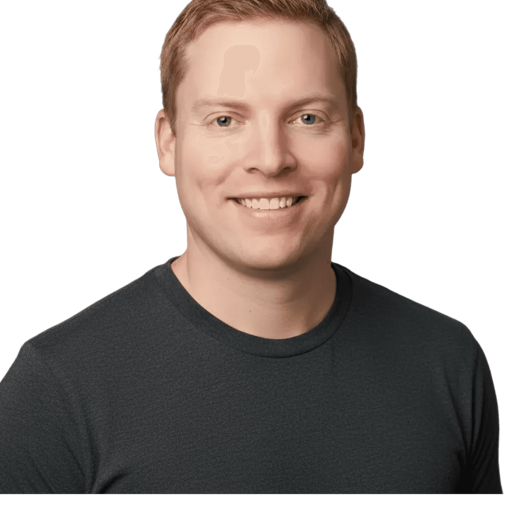
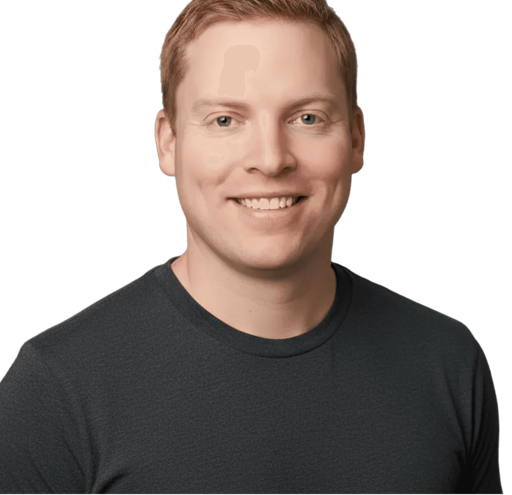
Portfolio updates: adjust profile picture positioning (#1)
* fix: lower profile picture within circle container

Move circle styling (border-radius, border, box-shadow) from .avatar
to .profile-image container with overflow:hidden. Use scale(1.08) with
transform-origin:center-top on the image to shift visible content down
~7px within the circle. Consolidate duplicate .profile-image rules.

* fix: fine-tune profile picture position — ~1px above hair

Increased scale to 1.28 and added translateY(-21px) to position the
photo so just a pixel of background is visible above the hairline.

* fix: reposition profile photo — show full hair with no bottom black bar

Scale image 1.32x and shift down 19px within the circle container.
Ensures full head/hair is visible with ~1-2px gap above hairline,
while cropping the dark background at the bottom of the photo.

* fix: crop photo transparent padding and simplify avatar CSS

- Cropped 17px of transparent padding from bottom of ken-zink.png
- Removed complex scale/translate transforms from .avatar
- Added theme-aware background (var(--bg-primary)) to .profile-image
  container so transparent areas in the photo blend with the page
- Result: full hair visible at top, no dark bar at bottom, works
  in both dark and light themes

* fix: shift profile photo down 16px for better hair visibility

Scale image 1.22x and translateY 16px to push the photo down within
the circle, giving the hair more clearance from the circle's top edge.

diff --git a/src/App.css b/src/App.css
@@ -84,8 +84,14 @@ body {
 }
 
 .profile-image {
-  display: flex;
-  justify-content: center;
+  width: 140px;
+  height: 140px;
+  border-radius: 50%;
+  overflow: hidden;
+  border: 3px solid var(--accent);
+  box-shadow: 0 8px 32px rgba(99, 102, 241, 0.3);
+  margin: 0 auto;
+  background: var(--bg-primary);
 }
 
 .avatar-placeholder {
@@ -102,19 +108,13 @@ body {
   box-shadow: 0 8px 32px rgba(99, 102, 241, 0.3);
 }
 
-.profile-image {
-  display: flex;
-  justify-content: center;
-}
-
 .avatar {
-  width: 140px;
-  height: 140px;
-  border-radius: 50%;
+  width: 100%;
+  height: 100%;
   object-fit: cover;
   object-position: center top;
-  border: 3px solid var(--accent);
-  box-shadow: 0 8px 32px rgba(99, 102, 241, 0.3);
+  transform: scale(1.22) translateY(16px);
+  transform-origin: center center;
 }
 
 .profile-info {
